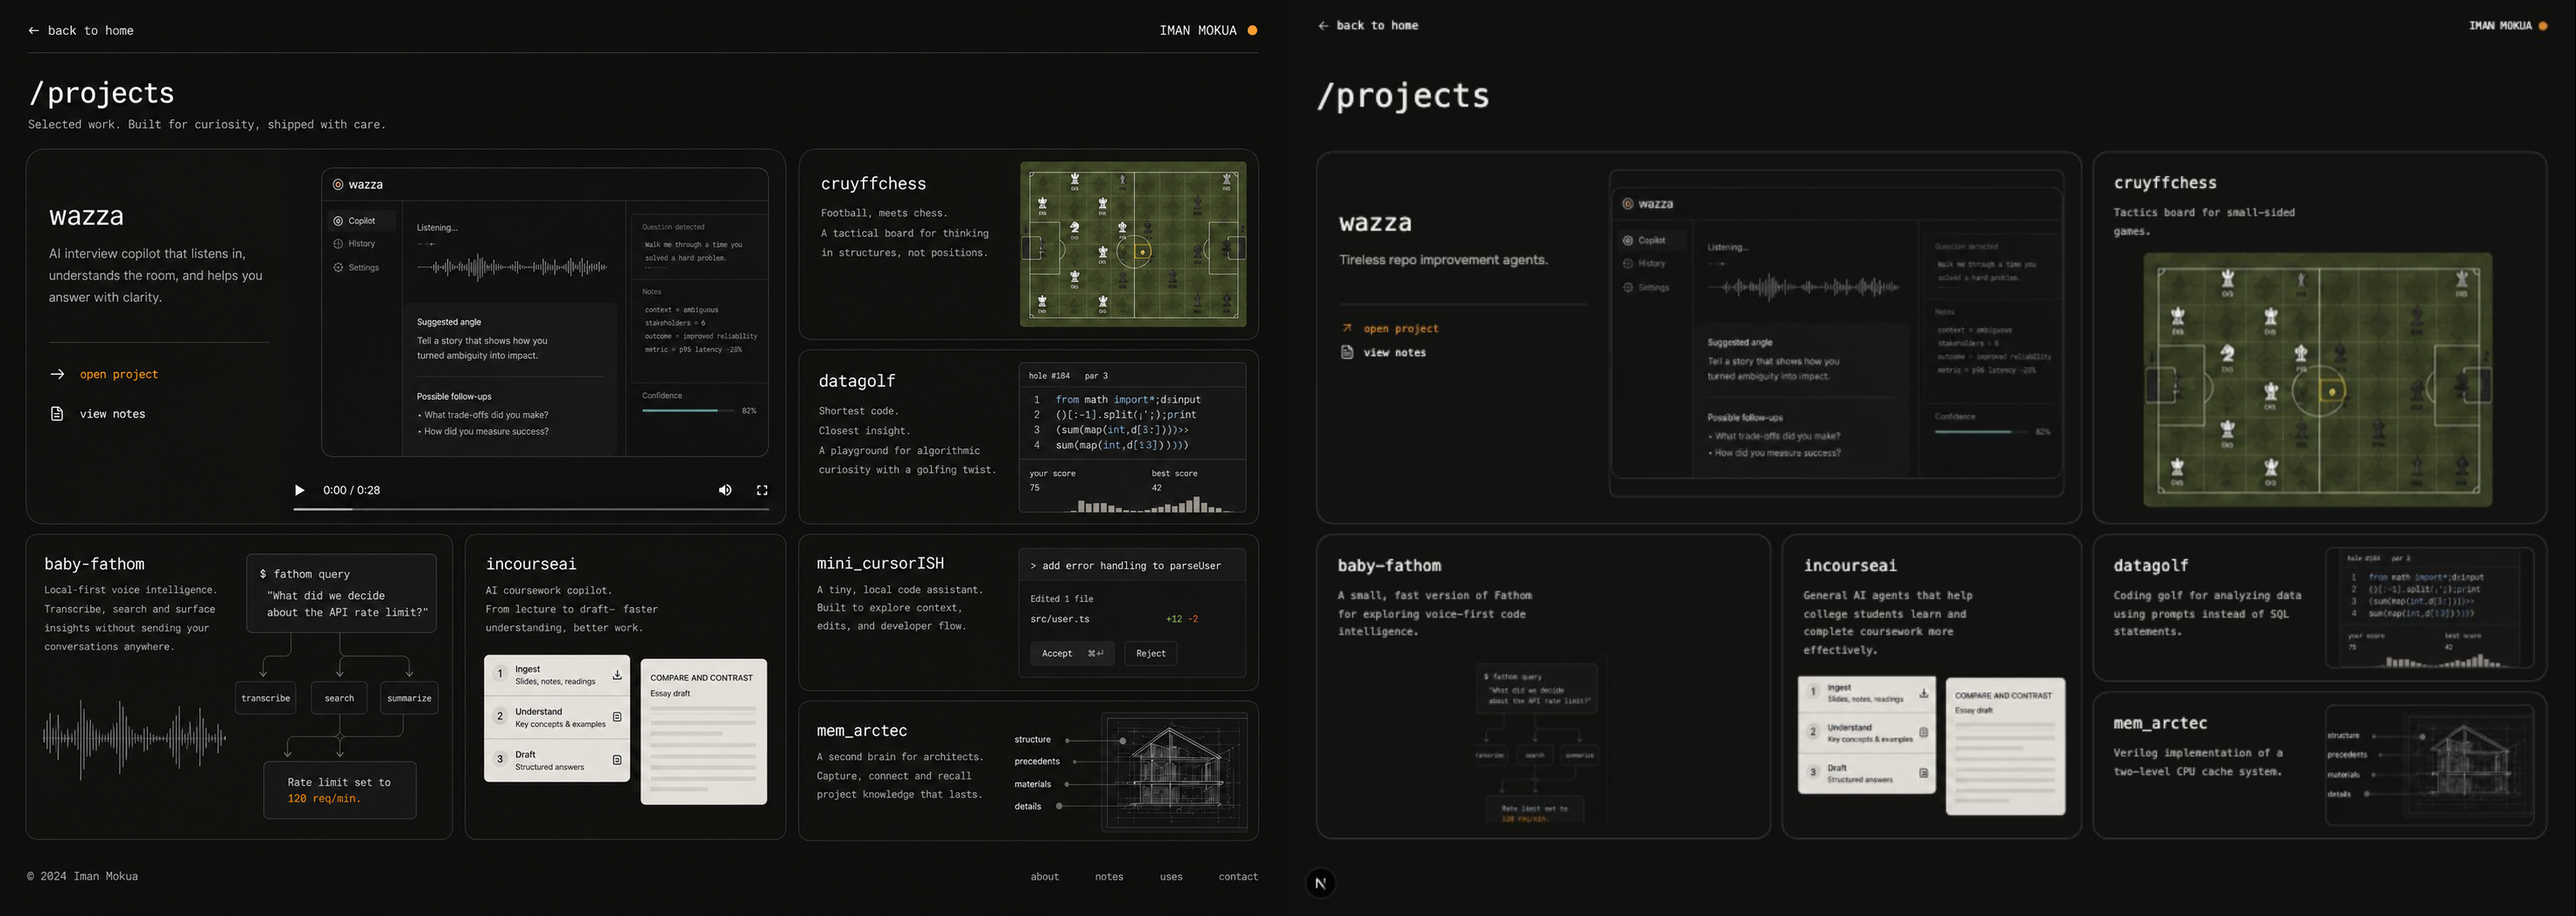
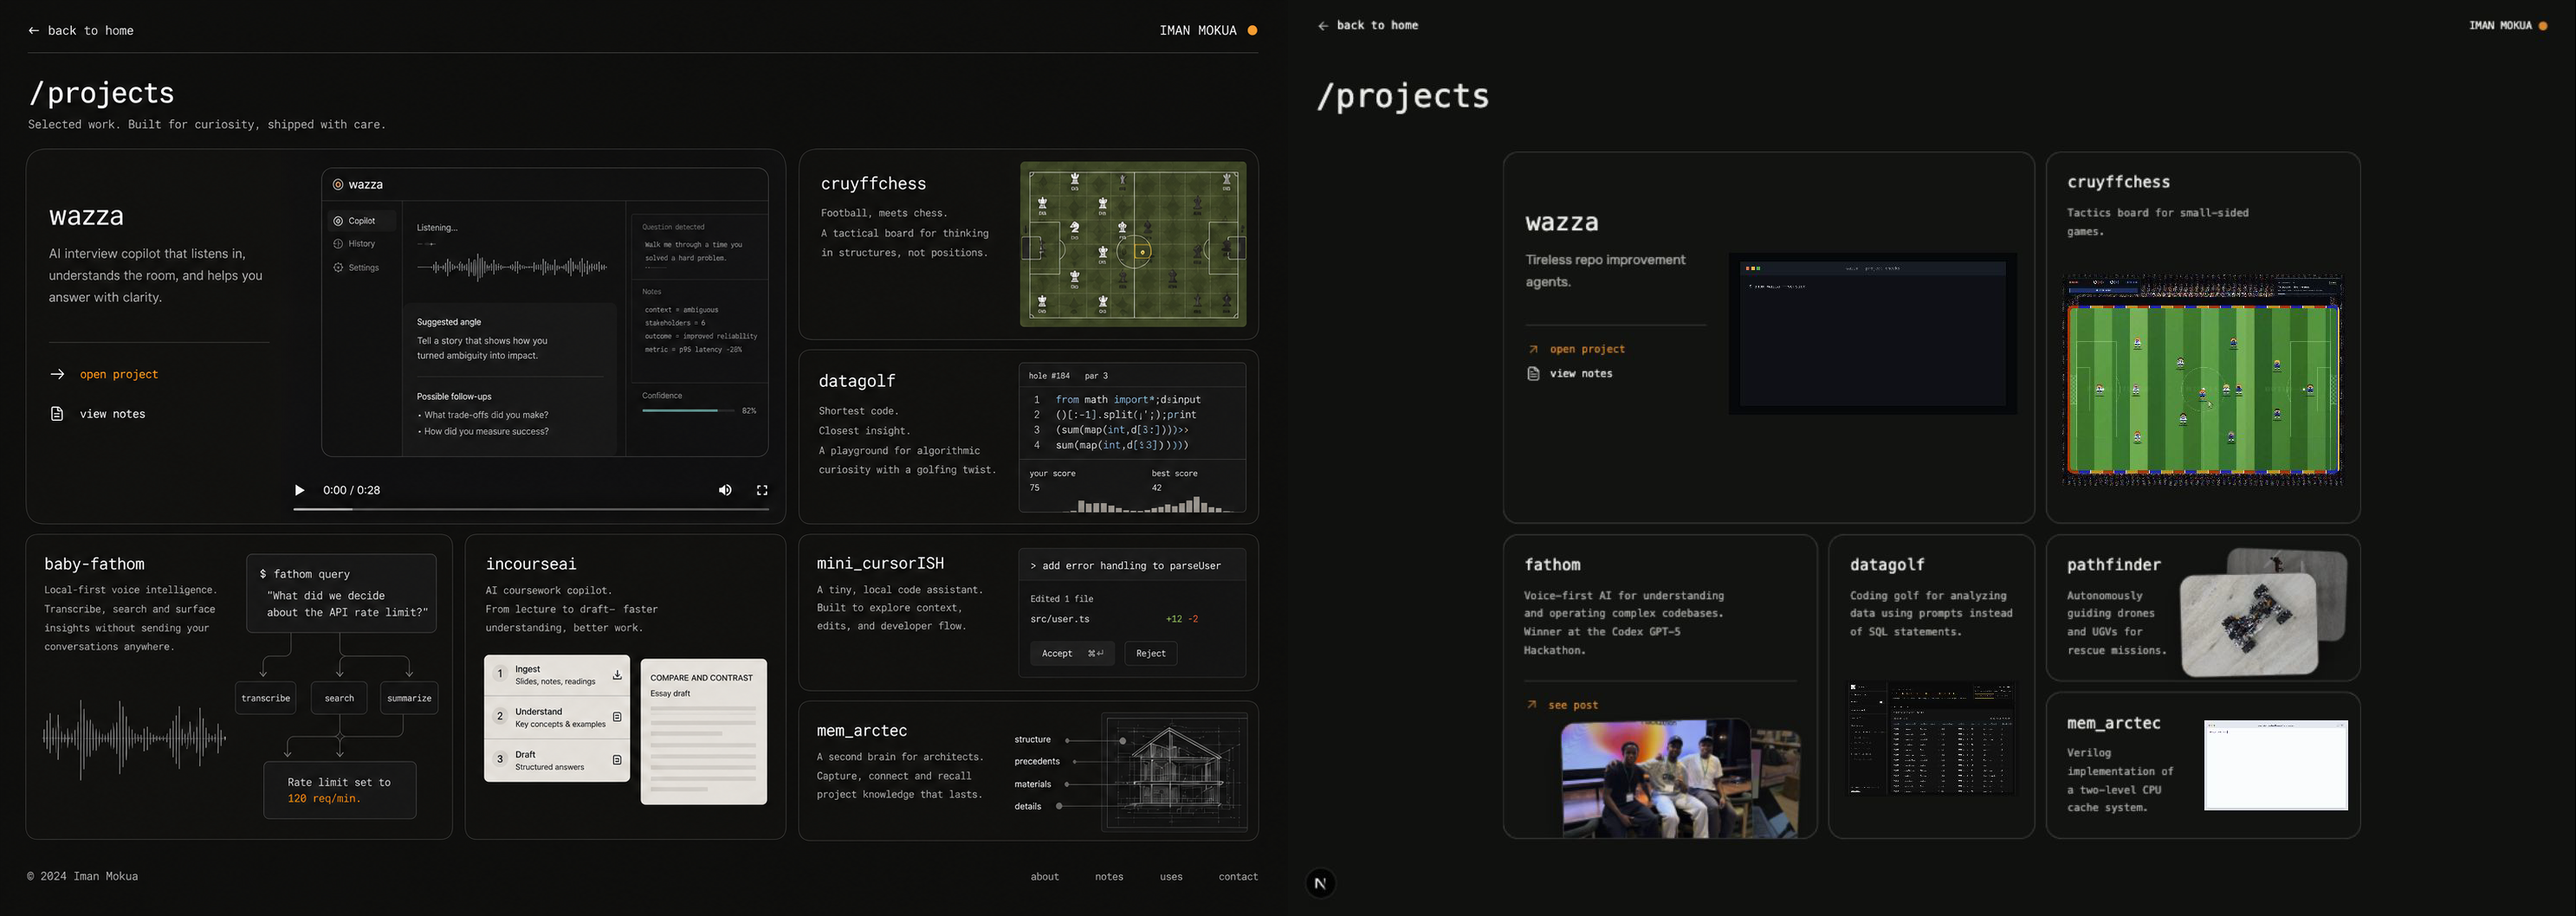
Link project titles and add Fathom showcase

diff --git a/src/features/projects/project-data.ts b/src/features/projects/project-data.ts
@@ -6,6 +6,7 @@ export const projects: Project[] = [
     name: "wazza",
     description: "Tireless repo improvement agents.",
     layout: "featured",
+    url: "https://github.com/manue7mokua/wazza",
     links: [
       {
         href: "https://github.com/manue7mokua/wazza",
@@ -32,6 +33,7 @@ export const projects: Project[] = [
     name: "cruyffchess",
     description: "Tactics board for small-sided games.",
     layout: "tall",
+    url: "https://github.com/manue7mokua/cruyffchess",
     media: {
       kind: "video",
       src:
@@ -47,6 +49,7 @@ export const projects: Project[] = [
     description:
       "Coding golf for analyzing data using prompts instead of SQL statements.",
     layout: "tall",
+    url: "https://github.com/manue7mokua/datagolf",
     media: {
       kind: "video",
       src:
@@ -57,15 +60,33 @@ export const projects: Project[] = [
     },
   },
   {
-    id: "baby-fathom",
-    name: "baby-fathom",
+    id: "fathom",
+    name: "fathom",
     description:
-      "A small, fast version of Fathom for exploring voice-first code intelligence.",
+      "Voice-first AI for understanding and operating complex codebases. Winner at the Codex GPT-5 Hackathon.",
     layout: "tall",
+    url: "https://www.heyfathom.com/",
+    links: [
+      {
+        href: "https://www.linkedin.com/posts/200-startup-teams-were-able-to-ship-fast-ugcPost-7379229907295293441-dY8b/",
+        label: "see post",
+        type: "project",
+      },
+    ],
     media: {
-      kind: "image",
-      poster: "/projects/posters/baby-fathom.png",
-      alt: "Baby Fathom voice intelligence flow",
+      kind: "image-stack",
+      poster: "/projects/fathom/team.webp",
+      alt: "Fathom team at the Codex GPT-5 Hackathon",
+      images: [
+        {
+          src: "/projects/fathom/team.webp",
+          alt: "Fathom team at the Codex GPT-5 Hackathon",
+        },
+        {
+          src: "/projects/fathom/result.webp",
+          alt: "Fathom listed among the hackathon winners",
+        },
+      ],
     },
   },
   {
@@ -95,6 +116,7 @@ export const projects: Project[] = [
     name: "mem_arctec",
     description: "Verilog implementation of a two-level CPU cache system.",
     layout: "compact",
+    url: "https://github.com/manue7mokua/mem_arctec",
     media: {
       kind: "video",
       src:

diff --git a/src/features/projects/projects.module.css b/src/features/projects/projects.module.css
@@ -31,6 +31,7 @@
 
 .backLink,
 .identity,
+.cardTitleLink,
 .cardLink {
   color: inherit;
   text-decoration: none;
@@ -56,6 +57,7 @@
 
 .backLink:focus-visible,
 .identity:focus-visible,
+.cardTitleLink:focus-visible,
 .cardLink:focus-visible {
   outline: 1px solid currentColor;
   outline-offset: 4px;
@@ -135,6 +137,10 @@
   line-height: 1.2;
   letter-spacing: 0;
   transition: color 180ms ease;
+}
+
+.cardTitleLink {
+  display: inline-block;
 }
 
 .card:hover .cardTitle {
@@ -227,6 +233,7 @@
 .featured .mediaFrame {
   min-height: 240px;
   margin: 20px 20px 30px 0;
+  border: 0;
 }
 
 .landscape .cardInner,
@@ -358,9 +365,17 @@
   background: transparent;
 }
 
-.baby-fathom {
+.fathom {
   grid-column: 1 / span 6;
   grid-row: 3 / span 2;
+}
+
+.fathom .mediaFrame {
+  overflow: visible;
+}
+
+.fathom .photoStackButton {
+  width: min(74%, 220px);
 }
 
 .datagolf {
@@ -371,6 +386,10 @@
 .mem-arctec {
   grid-column: 11 / span 6;
   grid-row: 4;
+}
+
+.mem-arctec .mediaFrame {
+  border: 0;
 }
 
 @media (max-width: 1320px) {
@@ -417,7 +436,7 @@
     grid-row: 3;
   }
 
-  .baby-fathom {
+  .fathom {
     grid-column: 1 / span 3;
     grid-row: 5 / span 2;
   }
@@ -541,6 +560,7 @@
   .identity,
   .card,
   .cardTitle,
+  .cardTitleLink,
   .cardLink,
   .photoStackButton {
     transition: none;

diff --git a/src/features/projects/ProjectCard.tsx b/src/features/projects/ProjectCard.tsx
@@ -22,7 +22,20 @@ export function ProjectCard({ project }: ProjectCardProps) {
       <div className={styles.cardInner}>
         <div className={styles.cardContent}>
           <div>
-            <h2 className={styles.cardTitle}>{project.name}</h2>
+            <h2 className={styles.cardTitle}>
+              {project.url ? (
+                <Link
+                  className={styles.cardTitleLink}
+                  href={project.url}
+                  rel="noreferrer"
+                  target="_blank"
+                >
+                  {project.name}
+                </Link>
+              ) : (
+                project.name
+              )}
+            </h2>
             <p className={styles.cardDescription}>{project.description}</p>
           </div>
 

diff --git a/src/features/projects/types.ts b/src/features/projects/types.ts
@@ -37,4 +37,5 @@ export interface Project {
   links?: ProjectLink[];
   media?: ProjectMedia;
   name: string;
+  url?: string;
 }

diff --git a/design-qa.md b/design-qa.md
@@ -4,6 +4,7 @@
 
 - Source visual truth: `/Users/imanmokua/.codex/generated_images/019fd5c3-9dab-78a1-a295-6c61b9f213f1/call_qMFmdV1BddvTDkrsGGULl9c3.png`
 - Pathfinder interaction target: `/var/folders/t7/9n3jtrfd019bt3b8p3vd242m0000gn/T/codex-clipboard-f2355a93-5aea-4294-bf92-3f69cca31bc1.png`
+- Fathom source photography: `/Users/imanmokua/Downloads/IMG_1986.HEIC` and `/Users/imanmokua/Downloads/IMG_1979.HEIC`
 - Implementation: `http://localhost:3000/projects`
 - Implementation screenshot: `design-qa/implementation-desktop.png`
 - Full-view comparison: `design-qa/full-comparison.png`
@@ -22,10 +23,10 @@ No actionable P0, P1, or P2 differences remain.
 - Fonts and typography: the implementation uses a native monospace stack for the navigation, heading, project names, descriptions, and actions. Sizes, weights, wrapping, line heights, and zero letter spacing follow the reference hierarchy.
 - Spacing and layout rhythm: the 16-column desktop grid preserves the featured-left and stacked-right proportions within a centered two-thirds-width bento. At 1487px the grid measures 991px with equal 248px side space. The original card tracks remain unchanged.
 - Colors and visual tokens: the near-black background, low-contrast card borders, warm white type, muted body copy, and orange action/status accent match the source treatment.
-- Image quality and asset fidelity: Pathfinder uses optimized 1600px WebP exports of the supplied drone and UGV photography. Wazza, Cruyffchess, Datagolf, and Mem Arctec use optimized H.264 demos with fast-start metadata and poster fallbacks.
-- Copy and content: Pathfinder replaces InCourse AI in the same grid slot and uses the supplied rescue-mission description. The requested subtitle, top divider, footer, `dogbed_db`, `ss-devices-proj`, and `mini_cursorISH` remain removed.
+- Image quality and asset fidelity: Pathfinder and Fathom use optimized 1600px WebP exports of the supplied photography. Wazza, Cruyffchess, Datagolf, and Mem Arctec use optimized H.264 demos with fast-start metadata and poster fallbacks. Wazza and Mem Arctec no longer add an inner gray frame around their video previews.
+- Copy and content: Fathom replaces Baby Fathom with a concise product description, the Codex GPT-5 Hackathon win, and a `see post` link to OpenAI's LinkedIn post. Pathfinder remains in the InCourse AI slot. The requested subtitle, top divider, footer, `dogbed_db`, `ss-devices-proj`, and `mini_cursorISH` remain removed.
 - Responsive behavior: the page remains one viewport tall while the bento region owns vertical scrolling. At 390 x 844 the grid stacks into one column, all six cards remain readable in the intended order, and `scrollWidth` equals the 390px viewport width.
-- Interaction and accessibility: clicking either Pathfinder photo promotes it to the front with a smooth depth transition. The stack uses native buttons, visible keyboard focus, pressed-state semantics, descriptive labels, and a polite live-region update. Reduced-motion preferences disable the transition.
+- Interaction and accessibility: clicking either Pathfinder or Fathom photo promotes it to the front with a smooth depth transition. Project titles link to their supplied GitHub or production destinations, with Fathom routed to `heyfathom.com`. The stacks use native buttons, visible keyboard focus, pressed-state semantics, descriptive labels, and a polite live-region update. Reduced-motion preferences disable the transition.
 
 ## Comparison History
 
@@ -36,6 +37,7 @@ No actionable P0, P1, or P2 differences remain.
 5. Follow-up annotations moved InCourse AI into Datagolf's large slot, returned Datagolf to a compact slot, removed Mini CursorISH and the footer, and expanded Cruyffchess to keep both desktop grid columns filled. Project titles now use the orange accent on card hover.
 6. The latest annotation keeps the established grid tracks, moves Datagolf into the large InCourse AI slot, and makes only the centered bento region scrollable. The navigation and `/projects` heading remain fixed within the viewport.
 7. The Pathfinder pass replaced InCourse AI without moving its slot, added the supplied drone and UGV photo stack, connected four local demo videos, and narrowed the desktop bento to two-thirds of the viewport. Focused comparison evidence: `design-qa/pathfinder-comparison.png`.
+8. The Fathom pass replaced Baby Fathom in place, introduced the supplied hackathon photo stack, linked every provided project title, added the OpenAI post action, and removed the remaining Wazza and Mem Arctec preview borders.
 
 ## Primary Checks
 
@@ -45,6 +47,8 @@ No actionable P0, P1, or P2 differences remain.
 - Horizontal overflow: none at desktop or mobile
 - Scroll ownership: document remains fixed; bento region scrolls independently
 - Pathfinder image swap: passed for both front/back states
+- Fathom image swap: passed for both front/back states
+- Project title destinations: passed for Wazza, Cruyffchess, Datagolf, Fathom, and Mem Arctec
 - Demo playback: four H.264 videos loaded with non-zero intrinsic dimensions
 - Projects feature ESLint: passed
 - Browser console errors: none
